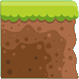
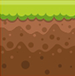
v1.5.3

diff --git a/proyecto_final_juego/mapa.py b/proyecto_final_juego/mapa.py
@@ -20,11 +20,20 @@ class Mapa:
             for row_index,row in enumerate(column):
                 x = row_index * platform_size
                 y = column_index * platform_size
-                if row == "X":
-                    plataforma = Plataforma((x,y),platform_size,path="{0}".format(PATH_TERRENO),flag=True,frames=1)
+                if row == "C":
+                    plataforma = Plataforma((x,y),platform_size,path="{0}".format(PATH_TERRENO),flag=True,frame=0)
+                    self.platforms_list.append(plataforma)
+                if row == "D":
+                    plataforma = Plataforma((x,y),platform_size,path="{0}".format(PATH_TERRENO),flag=True,frame=2)
+                    self.platforms_list.append(plataforma)
+                if row == "I":
+                    plataforma = Plataforma((x,y),platform_size,path="{0}".format(PATH_TERRENO),flag=True,frame=1)
+                    self.platforms_list.append(plataforma)
+                if row == "T":
+                    plataforma = Plataforma((x,y),platform_size,path="{0}".format(PATH_TERRENO),flag=True,frame=4)
                     self.platforms_list.append(plataforma)
                 if row == "L":
-                    plataforma = Plataforma((x,y),platform_size,path="{0}".format(PATH_TERRENO),flag=True,frames=1)
+                    plataforma = Plataforma((x,y),platform_size,path="{0}".format(PATH_TERRENO),flag=True,frame=1)
                     self.limits_list.append(plataforma)
                 if row == "P":
                     self.player = Jugador(path=PATH_JUGADOR,speed_walk=SPEED_WALK,speed_run=SPEED_RUN,jump_power=-16,jump_height=200,gravity=0.8,size=(50,90),pos=(x,y))
@@ -69,14 +78,15 @@ class Mapa:
             self.world_move_x = 0
             player.walk_speed = SPEED_WALK
     
-    def enemy_movement(self,limit,speed,world_speed):
+    def enemy_movement(self,limit,speed):
         enemy_list = self.enemy_list
         for enemy in enemy_list:
-            enemy.speed = 3
-            enemy.rect_enemy.x += world_speed + enemy.speed
             if enemy.rect_enemy.right == limit.rect.left:
-                enemy.speed = -speed
+                print(enemy.rect_enemy.right,limit.rect.left)
+                enemy.speed = speed
             elif enemy.rect_enemy.left == limit.rect.right:
+                enemy.speed = speed
+            else:
                 enemy.speed = speed
             
     def run(self,delta_ms):
@@ -89,10 +99,11 @@ class Mapa:
             
 
         for enemy in self.enemy_list:
+            enemy.update(self.world_move_x)
             enemy.draw(self.screen)
 
         for limit in self.limits_list:
-            self.enemy_movement(limit,1,self.world_move_x)
+            self.enemy_movement(limit,10)
             limit.update(self.world_move_x)
             limit.draw(self.screen)
         #jugador

diff --git a/proyecto_final_juego/enemigo.py b/proyecto_final_juego/enemigo.py
@@ -5,13 +5,14 @@ class Enemy:
 
     def __init__(self,size,pos) -> None:
         self.surface_enemy = pygame.surface.Surface((size,size))
-        self.surface_enemy.fill(R)
+        self.surface_enemy.fill(G)
         self.rect_enemy = self.surface_enemy.get_rect(topleft = pos)
 
-        #movement
-        self.direction = pygame.math.Vector2(0,0)
-        self.speed = 0    
-
-
+        self.speed = 0
+    def update(self,world_speed):
+        self.rect_enemy.x += world_speed + self.speed
     def draw(self,screen):
         screen.blit(self.surface_enemy,self.rect_enemy)
+        
+        if DEBUG:
+            pygame.draw.rect(screen,R,self.rect_enemy,1)

diff --git a/proyecto_final_juego/plataformas.py b/proyecto_final_juego/plataformas.py
@@ -4,8 +4,8 @@ from funciones_utiles import *
 
 class Plataforma:
 
-    def __init__(self,pos,size,path,flag,frames) -> None:
-        self.surface = getSurfaceFromSeparateSprite(path=path,frames=frames,flag_flip=flag,size=(size,size))[0]
+    def __init__(self,pos,size,path,flag,frame) -> None:
+        self.surface = getSurface(path=path,frame=frame,flag_flip=flag,size=(size,size))
         self.rect = self.surface.get_rect(topleft = pos)
 
     def update(self,world_speed_x):
@@ -13,3 +13,5 @@ class Plataforma:
 
     def draw(self,screen):
         screen.blit(self.surface,self.rect)
+        if DEBUG:
+            pygame.draw.rect(screen,R,self.rect,1)

diff --git a/proyecto_final_juego/constantes.py b/proyecto_final_juego/constantes.py
@@ -30,8 +30,9 @@ W = (255,255,255)
 #direccion
 
 DIRECCION = True
+DEBUG = True
 
-platform_size = 50
+platform_size = 52
 
 
 level_map = [
@@ -45,10 +46,12 @@ level_map = [
     'X                            X',
     'X                            X',
     'X          L   E    L        X',
-    'X           XXXXXXXX         X',
+    'X         PIPPPPPPPPPD       X',
     'X                            X',
     'X    P                       X',
-    'XXXXXXXXXXXXXXXXXXXXXXXXXXXXXX'
+    'ICCCCCCCCCCCCCCCCCCCCCCCCCCCCD',
+    'ITTTTTTTTTTTTTTTTTTTTTTTTTTTTD'
+
 ]
 
 #definimos las dimensiones iniciales de la pantalla

diff --git a/proyecto_final_juego/funciones_utiles.py b/proyecto_final_juego/funciones_utiles.py
@@ -12,7 +12,12 @@ def getSurfaceFromSeparateSprite(path:str,frames:int,flag_flip:bool,size:tuple):
         lista_frames.append(surface_sprite)
     return lista_frames
 
-
+def getSurface(path:str,frame:int,flag_flip:bool,size:tuple):
+    surface_sprite = pygame.image.load("{0}{1}.png".format(path,frame))
+    surface_sprite = pygame.transform.scale(surface_sprite,size)
+    if flag_flip:
+        surface_sprite = pygame.transform.flip(surface_sprite,True,False)
+    return surface_sprite
 
 def getSurfaceFromSprites(path:str,columnas:int,filas:int,step:int,flag_flip:bool,size:tuple):
     lista_frames = []

diff --git a/proyecto_final_juego/jugador.py b/proyecto_final_juego/jugador.py
@@ -128,3 +128,6 @@ class Jugador:
             self.frame = 0
 
         screen.blit(self.imagen_jugador,self.rect_jugador)
+        
+        if DEBUG:
+            pygame.draw.rect(screen,R,self.rect_jugador,1)
